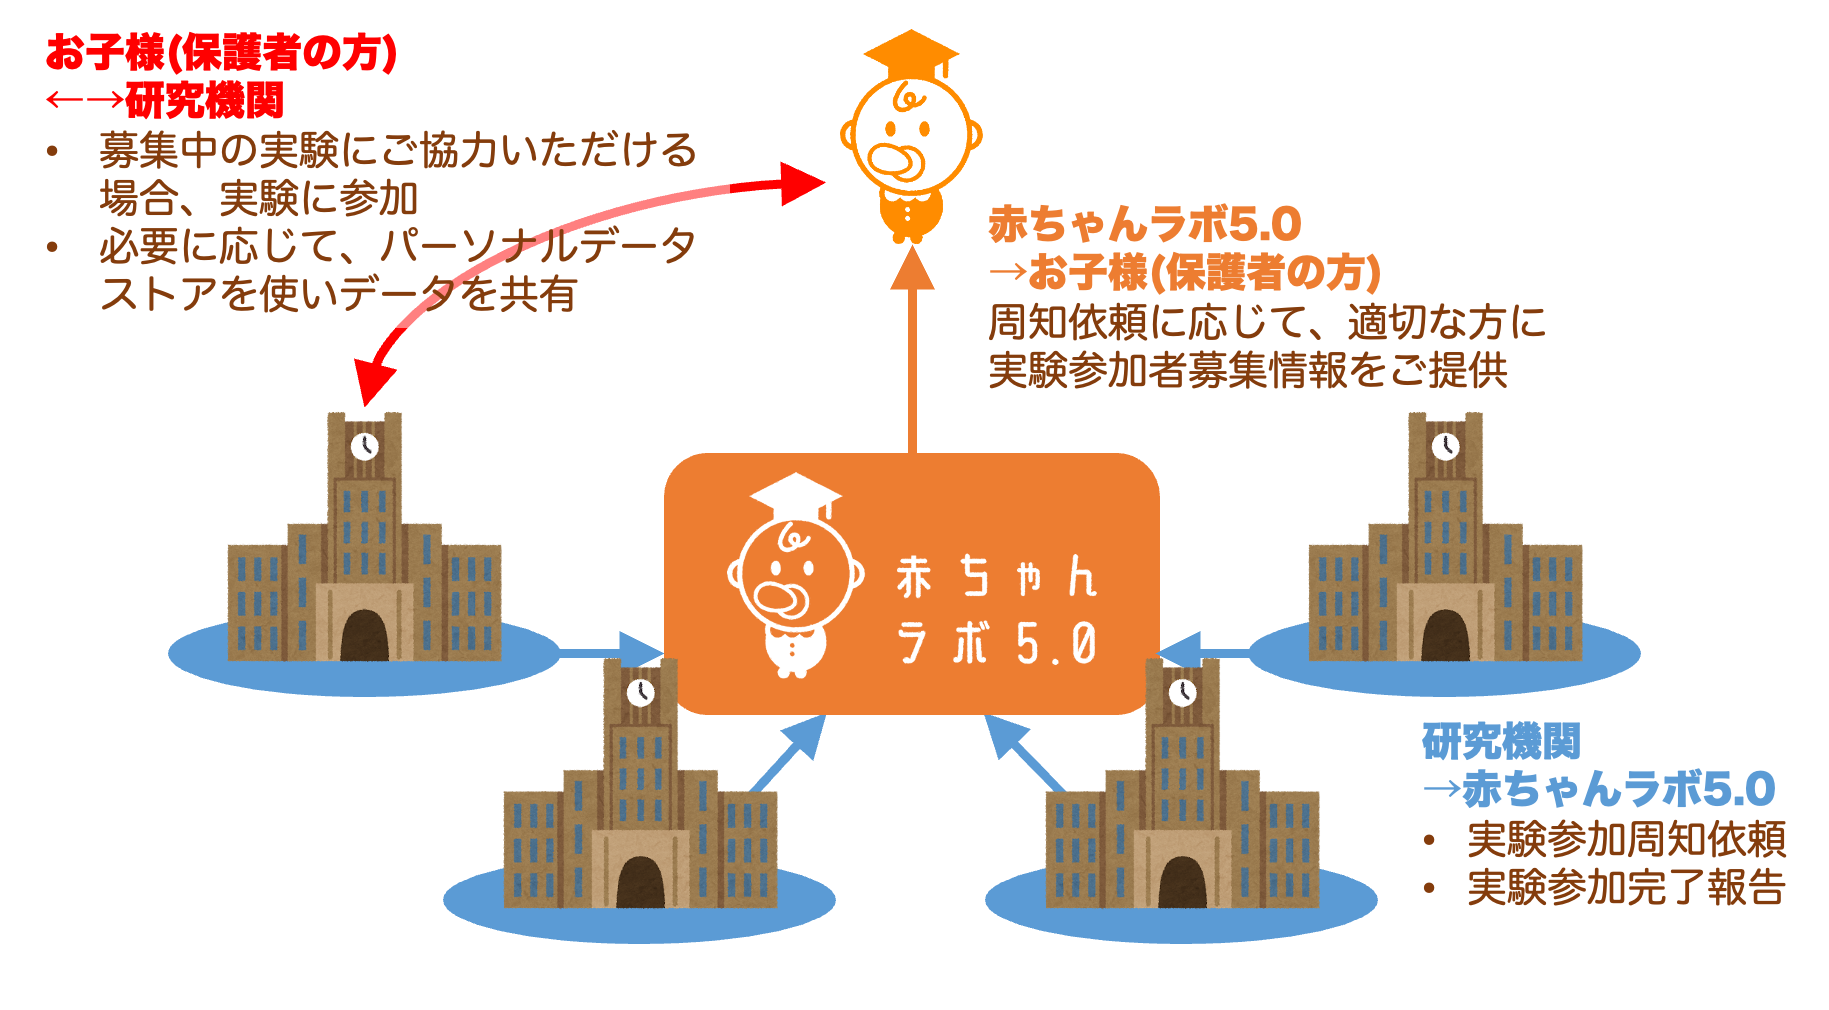
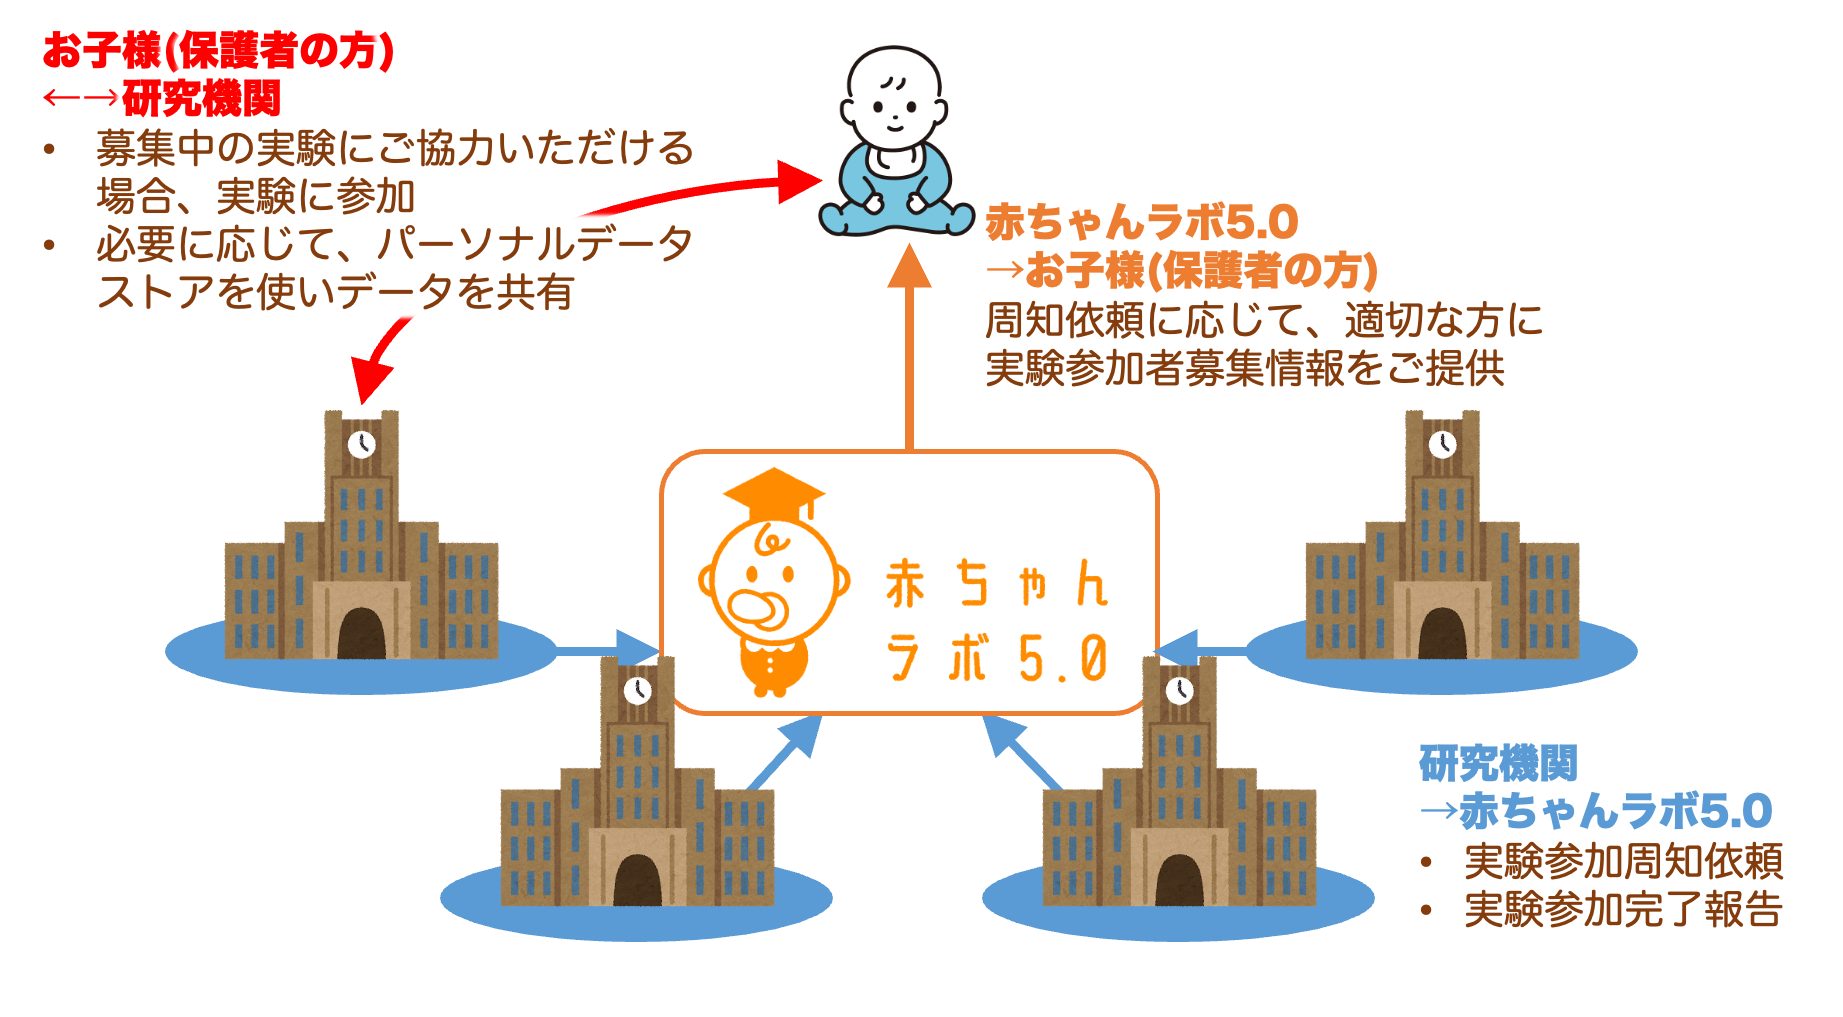
Fix figures

Changed region(s): [[0.0, 0.0307, 0.9973, 0.9515]]

diff --git a/personary.md b/personary.md
@@ -20,15 +20,15 @@ items:
     title: お問い合わせ
 ---
 
-# パーソナルデータストアのインストールのお願い
+# パーソナルデータストアのインストールと実験参加登録のお願い
 
 赤ちゃんラボ5.0では、
-今後ご案内する予定の実験において、得られたデータをお子様(当面は保護者の方)が管理、利用できるように、お子様専用の**パーソナルデータストア**を作成することをお願いしております。<br>
+今後ご案内する予定の実験において、得られたデータをお子様(当面は保護者の方)が管理、利用できるように、お子様専用の**パーソナルデータストア**を作成し、実験参加登録することをお願いしております。<br>
 このお願いを実施いただいた方は、今後お送りする研究機関の実験参加者募集に応募いただくことができます。
 
 パーソナルデータストアの内容はご自身しか知らないパスフレーズで暗号化されるため、私たち赤ちゃんラボ5.0が勝手に参照することはできません。データは、お子様が自身の操作で共有した相手にのみ共有されます。これにより、お子様のデータのプライバシーと安全性が確保された状態で、安心して実験にご参加いただけます。
 
-きょうだいでご参加を検討いただける場合は、それぞれのお子様用に専用のGoogleアカウントとパーソナルデータストアを作成いただけますと幸いです。
+きょうだいでご参加を検討いただける場合は、それぞれのお子様用に専用のGoogleアカウントとパーソナルデータストアを作成し、実験参加登録をいただけますと幸いです。
 
 ※この手順を実施することで、課金されるなどの金銭を要求されることはありません。
 
@@ -124,7 +124,7 @@ Personaryの利用には、以下の点にご注意ください。
 
 
 
-## 3. 実験プラットフォームGO-E-MONへの登録
+## 3. 実験プラットフォームGO-E-MONでの実験参加登録
 
 GO-E-MONは、実験で得られたデータを、研究機関と参加者個人、それぞれのパーソナルデータストアに共有するためのプラットフォームです。このプラットフォームをご利用いただくことで、研究機関だけでなく参加者の方にも実験データが蓄積されるようになり、参加者の同意のもと二次利用を行うことが可能になります。
 
@@ -171,6 +171,12 @@ GO-E-MONは、実験で得られたデータを、研究機関と参加者個人
       <a href="/assets/images/personary/personary-go-e-mon-added.png">
         <img src="/assets/images/personary/personary-go-e-mon-added.png" alt="GO-E-MONが友達追加された状態" />
       </a>
+    </div>
+
+1. 最後に、GO-E-MONの実験登録ページ [https://goemon.cloud/t/ThDRwqUxTYR6OFyD79H9](https://goemon.cloud/t/ThDRwqUxTYR6OFyD79H9) にアクセスし、実験参加登録を行ってください。以下のQRコードを読み取ることでもアクセスできます。
+
+    <div class="personary-screenshots-3">
+        <img src="/assets/images/personary/goemon-experiment-registration-qr.png" alt="実験登録QRコード" />
     </div>
 
 ごきょうだいがいる場合は、画面右上のプロフィールメニューからログアウトを行った上で、この操作を繰り返してください。

diff --git a/join-person.md b/join-person.md
@@ -52,7 +52,7 @@ items:
 
 つきましては、下記のリンクの流れをご参照の上、お子様の「パーソナルデータストア」を作成いただけましたら幸いです。
 
-[パーソナルデータストアのインストールのお願い](personary.html)
+[パーソナルデータストアのインストールと実験参加登録のお願い](personary.html)
 
 > ※ごきょうだいで参加される場合は、それぞれのお子様ごとに専用のパーソナルデータストアをお作りください。<br>
 > ※パーソナルデータストアの作成には、お子様専用のGoogleアカウントが必要となります。
